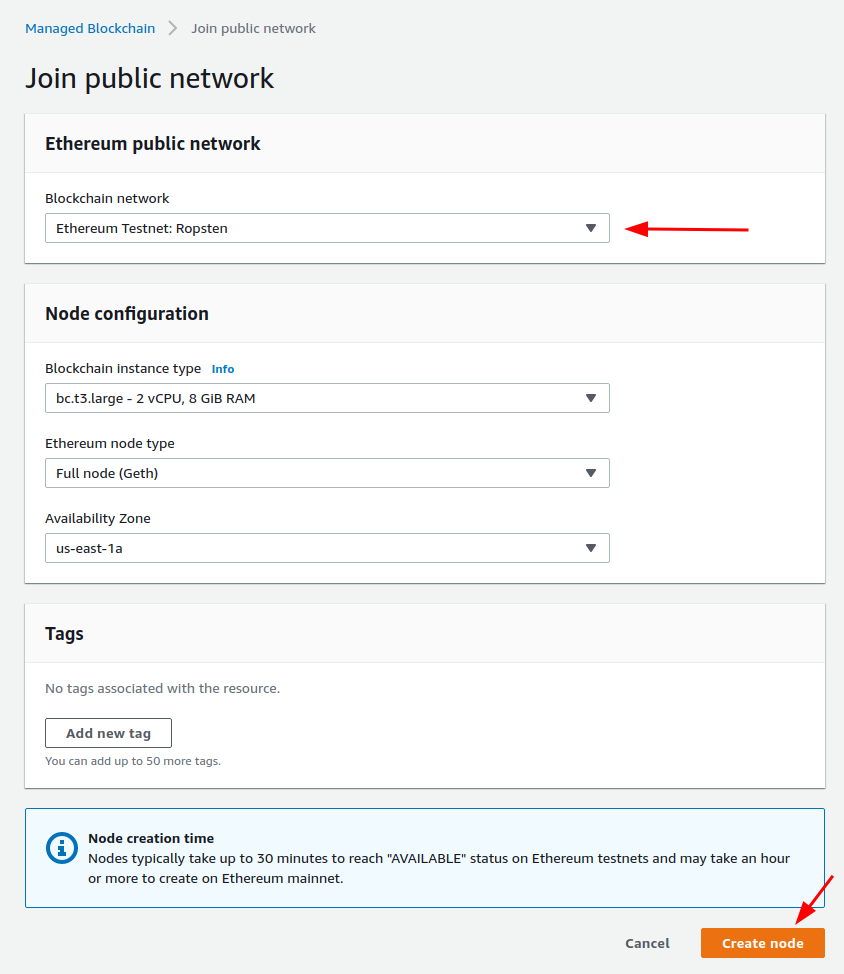
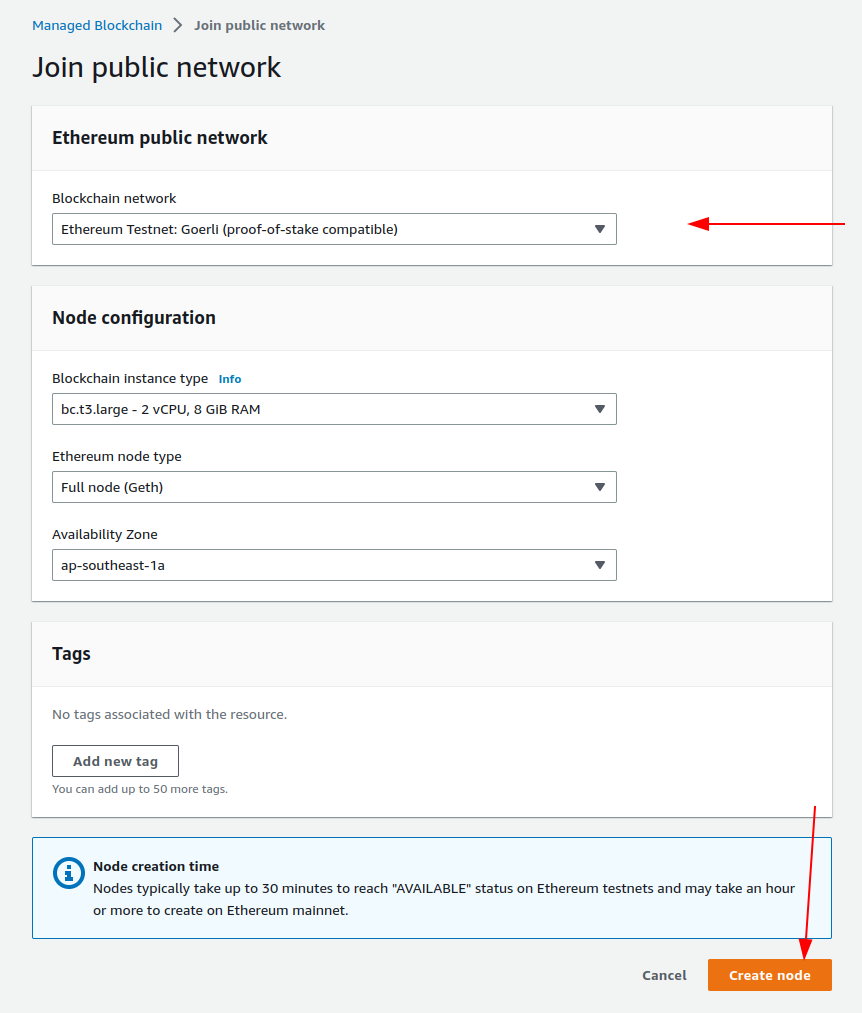
feat(goerli): upgrade eth network
This change upgrades to the Goerli test network since the previous
version used Ropsten which is now entirely deprecated.

fix #40

diff --git a/deploy.js b/deploy.js
@@ -228,7 +228,7 @@ const promptForEther = async () => {
   const address = await getFromSettings('address');
   console.log(
     chalk.green
-      .bold(`Navigate to https://faucet.egorfine.com/ to add ETH to your address:
+      .bold(`Navigate to https://goerlifaucet.com/ to add ETH to your address:
 ${address}
 Then press any key to continue...`)
   );

diff --git a/provision/lib/amb-stack.ts b/provision/lib/amb-stack.ts
@@ -10,7 +10,7 @@ export class AmbStack extends Stack {
     const region = Stack.of(this).region;
 
     const ambNode = new managedblockchain.CfnNode(this, 'Node', {
-      networkId: 'n-ethereum-ropsten',
+      networkId: 'n-ethereum-goerli',
       nodeConfiguration: {
         availabilityZone: firstAz,
         instanceType: 'bc.t3.large',

diff --git a/docs/ja/DOCS_02_DEPLOY_CONTRACT.md b/docs/ja/DOCS_02_DEPLOY_CONTRACT.md
@@ -1,10 +1,10 @@
 # Contract のデプロイ
 
-[Solidity](https://docs.soliditylang.org/) で書かれた Contract を Ethereum Ropsten にデプロイします。Solidity は Smart Contract を書くために利用するオブジェクト指向言語です。
+[Solidity](https://docs.soliditylang.org/) で書かれた Contract を Ethereum Goerli にデプロイします。Solidity は Smart Contract を書くために利用するオブジェクト指向言語です。
 
 また、[hardhat](https://hardhat.org/) というツールも利用します。hardhat は Node.js で動作する Ethereum の開発環境で、Solidity で書かれた Contract をローカルで実行することができます。
 
-> 以下の手順では、hardhat のインストールを行い、Contract をコンパイルして、Ethereum Ropsten にデプロイします。
+> 以下の手順では、hardhat のインストールを行い、Contract をコンパイルして、Ethereum Goerli にデプロイします。
 
 **以下の手順は全て `/contract` ディレクトリで実施します。**
 
@@ -30,7 +30,7 @@ npx hardhat compile
 
 ## テスト
 
-> この手順はスキップ可能です。スキップした場合は [Amazon Managed Blockchain 経由で Ethereum Ropsten にデプロイ](#) に進んでください。
+> この手順はスキップ可能です。スキップした場合は [Amazon Managed Blockchain 経由で Ethereum Goerli にデプロイ](#) に進んでください。
 
 以下のコマンドを実行すると、`/contract/test` 以下に定義されたテストを実行します。
 
@@ -40,7 +40,7 @@ npx hardhat test
 
 ## ローカルで動作検証 (オプショナル)
 
-> この手順はスキップ可能です。スキップした場合は [Amazon Managed Blockchain 経由で Ethereum Ropsten にデプロイ](#) に進んでください。
+> この手順はスキップ可能です。スキップした場合は [Amazon Managed Blockchain 経由で Ethereum Goerli にデプロイ](#) に進んでください。
 
 以下の手順では 2 つのターミナルセッションを利用します。コンソールの実行をターミナルA、JSON-RPC サーバーの立ち上げをターミナルB で行うとして説明します。どちらのターミナルセッションでも、コマンドの実行は `/contract` ディレクトリで行います。
 
@@ -86,11 +86,11 @@ await contract.tokenURI(1);
 
 'dummy' という文字列が表示されれば成功です。Ctrl+C を 2 回押すとコンソールを閉じることができます。ターミナルA も停止し、セッションを閉じても問題ありません。
 
-## Amazon Managed Blockchain 経由で Ethereum Ropsten にデプロイ
+## Amazon Managed Blockchain 経由で Ethereum Goerli にデプロイ
 
-ではコンパイルした Solidity の Contract を Ethereum Ropsten にデプロイしていきます。まずは、デプロイスクリプト内で読み取る環境変数に適切な値を設定してきます。
+ではコンパイルした Solidity の Contract を Ethereum Goerli にデプロイしていきます。まずは、デプロイスクリプト内で読み取る環境変数に適切な値を設定してきます。
 
-最初に、Amazon Managed Blockchain の HTTP エンドポイントを環境変数に設定します。この HTTP エンドポイントは [Ethereum Testnet Ropsten のノード作成 (Amazon Managed Blockchain)](/docs/ja/DOCS_01_CREATE_AMB.md) にて確認したものになります。以下のコマンドを、`<node id>` と `<region>` を適切な値に書き換えた上で実行してください。
+最初に、Amazon Managed Blockchain の HTTP エンドポイントを環境変数に設定します。この HTTP エンドポイントは [Ethereum Testnet Goerli のノード作成 (Amazon Managed Blockchain)](/docs/ja/DOCS_01_CREATE_AMB.md) にて確認したものになります。以下のコマンドを、`<node id>` と `<region>` を適切な値に書き換えた上で実行してください。
 
 ```bash
 export AMB_HTTP_ENDPOINT=https://<node id>.ethereum.managedblockchain.<region>.amazonaws.com
@@ -104,7 +104,7 @@ npx hardhat account
 
 出力の `Address` はトークンの送付に必要になるアドレスで、`PrivateKey` は Transaction の署名に必要な秘密鍵です。`Address` は `PrivateKey` から生成されるので、1 対 1 の関係です。この `Address` と `PrivateKey` は後続の手順で必要になるので、必ずどこかに転記しておいてください。
 
-Contract をデプロイするにあたって、[ガスという名のコストを Ethereum で支払う必要があります。](https://ethereum.org/en/developers/docs/gas/) そのため、上で作成した `Address` に Ethereum をデポジットする必要があります。オンラインで、Ropsten ネットワーク上のみで利用可能な Ethereum を配布しているサービスがいくつか存在します。`Ropsten Ethereum Faucet` などで検索して、`Address` に Ethereum をデポジットしてください。例えば[こちらのサービス](faucet.dimensions.network)が利用可能です。
+Contract をデプロイするにあたって、[ガスという名のコストを Ethereum で支払う必要があります。](https://ethereum.org/en/developers/docs/gas/) そのため、上で作成した `Address` に Ethereum Goerli ネットワーク上のみで利用可能な Ethereum を配布しているサービスがいくつか存在します。`Goerli Ethereum Faucet` などで検索して、`Address` に Ethereum をデポジットしてください。例えば[こちらのサービス](https://goerlifaucet.com/)が利用可能です。
 
 デポジットが完了したら、以下のコマンドを実行してコントラクトをデプロイするアカウントを設定します。`<0x...>` のところは、上の手順の `PrivateKey` の内容に置き換えてください。
 
@@ -119,7 +119,7 @@ export AWS_ACCESS_KEY_ID=<...>
 export AWS_SECRET_ACCESS_KEY=<...>
 ```
 
-最後に、以下のコマンドを実行して `SimpleERC721` を Amazon Managed Blockchain 経由で Ethereum Ropsten にデプロイします。
+最後に、以下のコマンドを実行して `SimpleERC721` を Amazon Managed Blockchain 経由で Ethereum Goerli にデプロイします。
 
 ```bash
 npx hardhat run --network amb scripts/deploy-amb.js
@@ -130,6 +130,6 @@ npx hardhat run --network amb scripts/deploy-amb.js
 ## 次の手順
 
 **後続の手順で必要になるもの**
-- Contract のアドレス (Ethereum Ropsten にデプロイしたものです、**ローカル JSON-RPC サーバーにデプロイしたものではないことにお気をつけください。**)
+- Contract のアドレス (Ethereum Goerli にデプロイしたものです、**ローカル JSON-RPC サーバーにデプロイしたものではないことにお気をつけください。**)
 
 -> [API のデプロイ](/docs/ja/DOCS_03_DEPLOY_API.md)

diff --git a/docs/en/DOCS_02_DEPLOY_CONTRACT.md b/docs/en/DOCS_02_DEPLOY_CONTRACT.md
@@ -1,8 +1,8 @@
 # Deploy Contract
 
-Next we will deploy the contract written in [Solidity](https://docs.soliditylang.org/) 
-to Ethereum Testnet Ropsten.  Solidity is an object-oriented, high level language for 
-implementing smart contracts. 
+Next we will deploy the contract written in [Solidity](https://docs.soliditylang.org/)
+to Ethereum Testnet Goerli. Solidity is an object-oriented, high level language for
+implementing smart contracts.
 
 We will also be utilizing [hardhat](https://hardhat.org/), an Ethereum development environment
 which runs on Node.js that allows you to run Solidity locally.
@@ -10,7 +10,7 @@ which runs on Node.js that allows you to run Solidity locally.
 **Perform all of the following steps in the command line of the `/contract` directory
 in your local project**
 
-> **What are we doing?** In this step, we are installing the hardhat environment with Node.js 
+> **What are we doing?** In this step, we are installing the hardhat environment with Node.js
 > and compiling the contracts.  Note the contract defined in the /contract/contracts directory.
 > We will deploy the contract using the deploy.js and deploy-amb.js scripts in the /contract/scripts
 > directory.
@@ -25,7 +25,7 @@ their own implementations. The implementation content can be found [here][2].
 ## Compile Contract
 
 In your terminal or command line, make sure our current working directory is [/contract/](/contract/),
-we will start by installing the dependencies.  
+we will start by installing the dependencies.
 
 ```bash
 npm install
@@ -41,7 +41,7 @@ After compiling, you should see directories `contract/artifacts` and `contract/c
 
 ## Testing (optional)
 
-> Note: If you would like to skip this step, proceed to [Deploy to Ethereum Ropsten](#).
+> Note: If you would like to skip this step, proceed to [Deploy to Ethereum Goerli](#).
 
 The following command will run the tests defined under `/contract/test`.
 
@@ -51,15 +51,15 @@ npx hardhat test
 
 ## Verify build locally (optional)
 
-> Note: If you would like to skip this step, proceed to [Deploy to Ethereum Ropsten](#).
+> Note: If you would like to skip this step, proceed to [Deploy to Ethereum Goerli](#).
 
 The following steps utilize two terminal (or command line) sessions, both running in the `/contract`
 directory. We will refer to the terminal sessions as *"Terminal A"* and *"Terminal B"*.
 for the purpose of this step.
 
-> **What are we doing?** Use of the two terminall sessions will allow us to simulate our 
-> environments locally running a local JSON-RPC server in `terminal A` (or server terminal), 
-> and then interact with that server in via `terminal B` (or the user terminal) 
+> **What are we doing?** Use of the two terminall sessions will allow us to simulate our
+> environments locally running a local JSON-RPC server in `terminal A` (or server terminal),
+> and then interact with that server in via `terminal B` (or the user terminal)
 > for testing purposes.
 
 First, start the local JSON-RPC server by running the following commands in Terminal A.
@@ -122,9 +122,9 @@ The console will output `'dummy'` since that was the value we set in the previou
 step. You can now exit both Terminal A and Terminal B processes by pressing `Ctrl + C`
 twice.
 
-## Deploy to Ethereum Ropsten via Amazon Managed Blockchain
+## Deploy to Ethereum Goerli via Amazon Managed Blockchain
 
-We can now deploy the contract to Ethereum Ropsten for testing.
+We can now deploy the contract to Ethereum Goerli for testing.
 
 First, the deploy script depends upon Environmental variables being set in order
 to connect with your Ethereum Blockchain node.
@@ -132,7 +132,7 @@ to connect with your Ethereum Blockchain node.
 Set the Amazon Managed Blockchain HTTP endpoint to an environment variable
 in your terminal by running the following command. Replacing `<my-endpoint>` with
 the endpoint copied from the instructions in the previous page of
-[Creating a node for Ethereum Testnet Ropsten](./DOCS_01_CREATE_AMB.md).
+[Creating a node for Ethereum Testnet Goerli](./DOCS_01_CREATE_AMB.md).
 
 ```bash
 export AMB_HTTP_ENDPOINT='<my-endpoint>'
@@ -154,19 +154,20 @@ steps.
 > Note: In a real world application, extreme caution should be taken with storing
 > the `PrivateKey` to avoid any unauthorized access.
 
-To deploy our contract, we have to [pay the cost of gas](https://ethereum.org/en/developers/docs/gas/) 
-in Ethereum. Therefore, we need Ropsten Ethereum (rETH), and we must deposit Ethereum on the `Address` 
-we created above. There are several services that distribute Ethereum on the Ropsten network for 
-testing purposes, known as Ropsten Ethereum Faucets.
+To deploy our contract, we have to [pay the cost of gas](https://ethereum.org/en/developers/docs/gas/)
+in Ethereum. Therefore, we need Goerli Ethereum (GöETH), and we must deposit Ethereum on the `Address`
+we created above. There are several services that distribute Ethereum on the Goerli network for
+testing purposes, known as Goerli Ethereum Faucets.
 
-You can use [this faucet](faucet.dimensions.network) or Search with your favorite search engine for 
-`Ropsten Ethereum Faucet` and use a faucet to deposit Ethereum to the `Address` we just created.
-You may consult 
-[Ethereum documentation](https://ethereum.org/en/developers/tutorials/hello-world-smart-contract/#step-4) 
+You can use [this faucet](https://goerlifaucet.com/) or Search with your favorite search engine for
+`Goerli Ethereum Faucet` and use a faucet to deposit Ethereum to the `Address` we just created.
+You may consult
+[Ethereum documentation](https://ethereum.org/en/developers/tutorials/hello-world-smart-contract/#step-4)
 for more information.
 
 You must:
-1. Navigate to a provided rETH *faucet* and
+1. Navigate to a provided GöETH *faucet* and
+
 2. Enter the `Address` from the previous `Address`/`PrivateKey` pair
 
 After the deposit is complete, run the following command to set up an account to
@@ -195,7 +196,7 @@ export AWS_SECRET_ACCESS_KEY='<...>'
 [aws-web3-http-provider/5](https://github.com/awslabs/aws-web3-http-provider/issues/5)
 has been implemented.
 
-Finally, run the following command to deploy `SimpleERC721` to Ethereum Ropsten
+Finally, run the following command to deploy `SimpleERC721` to Ethereum Goerli
 via Amazon Managed Blockchain.
 
 ```bash

diff --git a/docs/ja/DOCS_01_CREATE_AMB.md b/docs/ja/DOCS_01_CREATE_AMB.md
@@ -1,4 +1,4 @@
-## Ethereum Testnet Ropsten のノードの作成 (Amazon Managed Blockchain)
+## Ethereum Testnet Goerli のノードの作成 (Amazon Managed Blockchain)
 
 **最初に**
 
@@ -8,11 +8,11 @@
 
 > 注意: 作成には 30 分程度かかります
 
-以下で作成する Ropsten というネットワークは **Ethereum のテストネット** として知られているネットワークです。メインネットでの開発前に、テスト環境として利用します。
+以下で作成する Goerli というネットワークは **Ethereum のテストネット** として知られているネットワークです。メインネットでの開発前に、テスト環境として利用します。
 
-[Amazon Managed Blockchain](https://console.aws.amazon.com/managedblockchain/home#joinNetwork) にて、Ethereum のノードを作成します。ブロックチェーンネットワークに **Ethereum Testnet: Ropsten** を選択し、後はデフォルトで作成してください。ノードのステータスが利用可能になるまでお待ち下さい。作成が完了したら、ノード ID をクリックしてノードの詳細ページを開きます。この後の手順で HTTP エンドポイントが必要になりますので、どこかに転記しておいてください。
+[Amazon Managed Blockchain](https://console.aws.amazon.com/managedblockchain/home#joinNetwork) にて、Ethereum のノードを作成します。ブロックチェーンネットワークに **Ethereum Testnet: Goerli** を選択し、後はデフォルトで作成してください。ノードのステータスが利用可能になるまでお待ち下さい。作成が完了したら、ノード ID をクリックしてノードの詳細ページを開きます。この後の手順で HTTP エンドポイントが必要になりますので、どこかに転記しておいてください。
 
-以上で Ethereum Testnet Ropsten のノードの作成は完了です。
+以上で Ethereum Testnet Goerli のノードの作成は完了です。
 
 ## 次の手順
 

diff --git a/docs/en/DOCS_01_CREATE_AMB.md b/docs/en/DOCS_01_CREATE_AMB.md
@@ -1,22 +1,22 @@
-# Creating a node for Ethereum Testnet: Ropsten
+# Creating a node for Ethereum Testnet: Goerli
 
-**Before you begin** 
+**Before you begin**
 
-Clone this repository to your workspace or local machine.  You will use 
-the code located in the specified directories at each step.   
+Clone this repository to your workspace or local machine.  You will use
+the code located in the specified directories at each step.
 
 ## Creating your Amazon Blockchain Node
 > Note: The creation of the node can take up to 30 minutes.
-> 
-To connect to the Ethereum network, we must create a node and connect it to the appropriate network. 
-We will use *Ropsten*, also known as the *Ethereum Testnet*, which is a test network allowing for
-blockchain development testing before deployment on Mainnet.  
+>
+To connect to the Ethereum network, we must create a node and connect it to the appropriate network.
+We will use *Goerli*, also known as the *Ethereum Testnet*, which is a test network allowing for
+blockchain development testing before deployment on Mainnet.
 
 This node will provide our endpoint to communicate with the Ethereum network.
 
 To get started, create an Ethereum node in the AWS Console for [Amazon Managed Blockchain][1].
 
-For *Blockchain Network*, select **Ethereum Testnet: Ropsten** and use the remaining
+For *Blockchain Network*, select **Ethereum Testnet: Goerli** and use the remaining
 configuration default values that have already been populated then select **Create Node**
 as outlined in the image below.
 

diff --git a/docs/ja/DOCS_03_DEPLOY_API.md b/docs/ja/DOCS_03_DEPLOY_API.md
@@ -64,7 +64,7 @@ cp ../contract/artifacts/contracts/SimpleERC721.sol/SimpleERC721.json lambda/con
 npm run build
 ```
 
-続いて、必要な環境変数を設定します。Amazon Managed Blockchain のエンドポイントとデプロイした Contract でアドレスは環境変数から読み取ります。`AMB_HTTP_ENDPOINT` は [Ethereum Testnet Ropsten のノード作成 (Amazon Managed Blockchain)](/docs/ja/DOCS_01_CREATE_AMB.md) で作成したノードの HTTP エンドポイントで、`CONTRACT_ADDRESS` は [Contract のデプロイ](/docs/ja/DOCS_02_DEPLOY_CONTRACT.md) でデプロイした Contract のアドレスです。以下のコマンドを適切な値に置き換えて実行してください。
+続いて、必要な環境変数を設定します。Amazon Managed Blockchain のエンドポイントとデプロイした Contract でアドレスは環境変数から読み取ります。`AMB_HTTP_ENDPOINT` は [Ethereum Testnet Goerli のノード作成 (Amazon Managed Blockchain)](/docs/ja/DOCS_01_CREATE_AMB.md) で作成したノードの HTTP エンドポイントで、`CONTRACT_ADDRESS` は [Contract のデプロイ](/docs/ja/DOCS_02_DEPLOY_CONTRACT.md) でデプロイした Contract のアドレスです。以下のコマンドを適切な値に置き換えて実行してください。
 
 ```bash
 export AMB_HTTP_ENDPOINT=https://<node id>.ethereum.managedblockchain.<region>.amazonaws.com

diff --git a/docs/ja/README.md b/docs/ja/README.md
@@ -44,7 +44,7 @@ npm run cleanup
 これにより、デプロイしたインフラストラクチャとデプロイスクリプトによって作成された `deploy-settings.json`ファイルを削除します。
 
 ## Step by Step によるデプロイガイド
-- [Ethereum Testnet Ropsten のノード作成 (Amazon Managed Blockchain)](/docs/ja/DOCS_01_CREATE_AMB.md)
+- [Ethereum Testnet Goerli のノード作成 (Amazon Managed Blockchain)](/docs/ja/DOCS_01_CREATE_AMB.md)
 - [Contract のデプロイ](/docs/ja/DOCS_02_DEPLOY_CONTRACT.md)
 - [API のデプロイ](/docs/ja/DOCS_03_DEPLOY_API.md)
 - [フロントエンドの動作確認](/docs/ja/DOCS_04_FRONTEND.md)

diff --git a/docs/en/DOCS_03_DEPLOY_API.md b/docs/en/DOCS_03_DEPLOY_API.md
@@ -59,7 +59,7 @@ npm run build
 The CDK project uses variables to populate the AMB Endpoint and Contract Address.
 Therefore, before we can deploy the project, will set the required environment variables.
 `AMB_HTTP_ENDPOINT` is the HTTP endpoint of the node we created in the previous
-step [Creating a node for Ethereum Testnet: Ropsten][1] and `CONTRACT_ADDRESS` is
+step [Creating a node for Ethereum Testnet: Goerli][1] and `CONTRACT_ADDRESS` is
 the address of the contract we deployed in [Deploy Contract][2].
 Replace the values in the following command with the values saved from
 previous steps and execute it.

diff --git a/docs/en/README.md b/docs/en/README.md
@@ -53,7 +53,7 @@ This will use CDK to remove the infrastructure we deployed, as well as remove th
 
 ## Step by Step Instructions
 
-1. [Creating a node for Ethereum Testnet: Ropsten](./DOCS_01_CREATE_AMB.md)
+1. [Creating a node for Ethereum Testnet: Goerli](./DOCS_01_CREATE_AMB.md)
 2. [Deploy Contract](./DOCS_02_DEPLOY_CONTRACT.md)
 3. [Deploy API](./DOCS_03_DEPLOY_API.md)
 4. [Testing the Front End (local)](./DOCS_04_FRONTEND.md)
